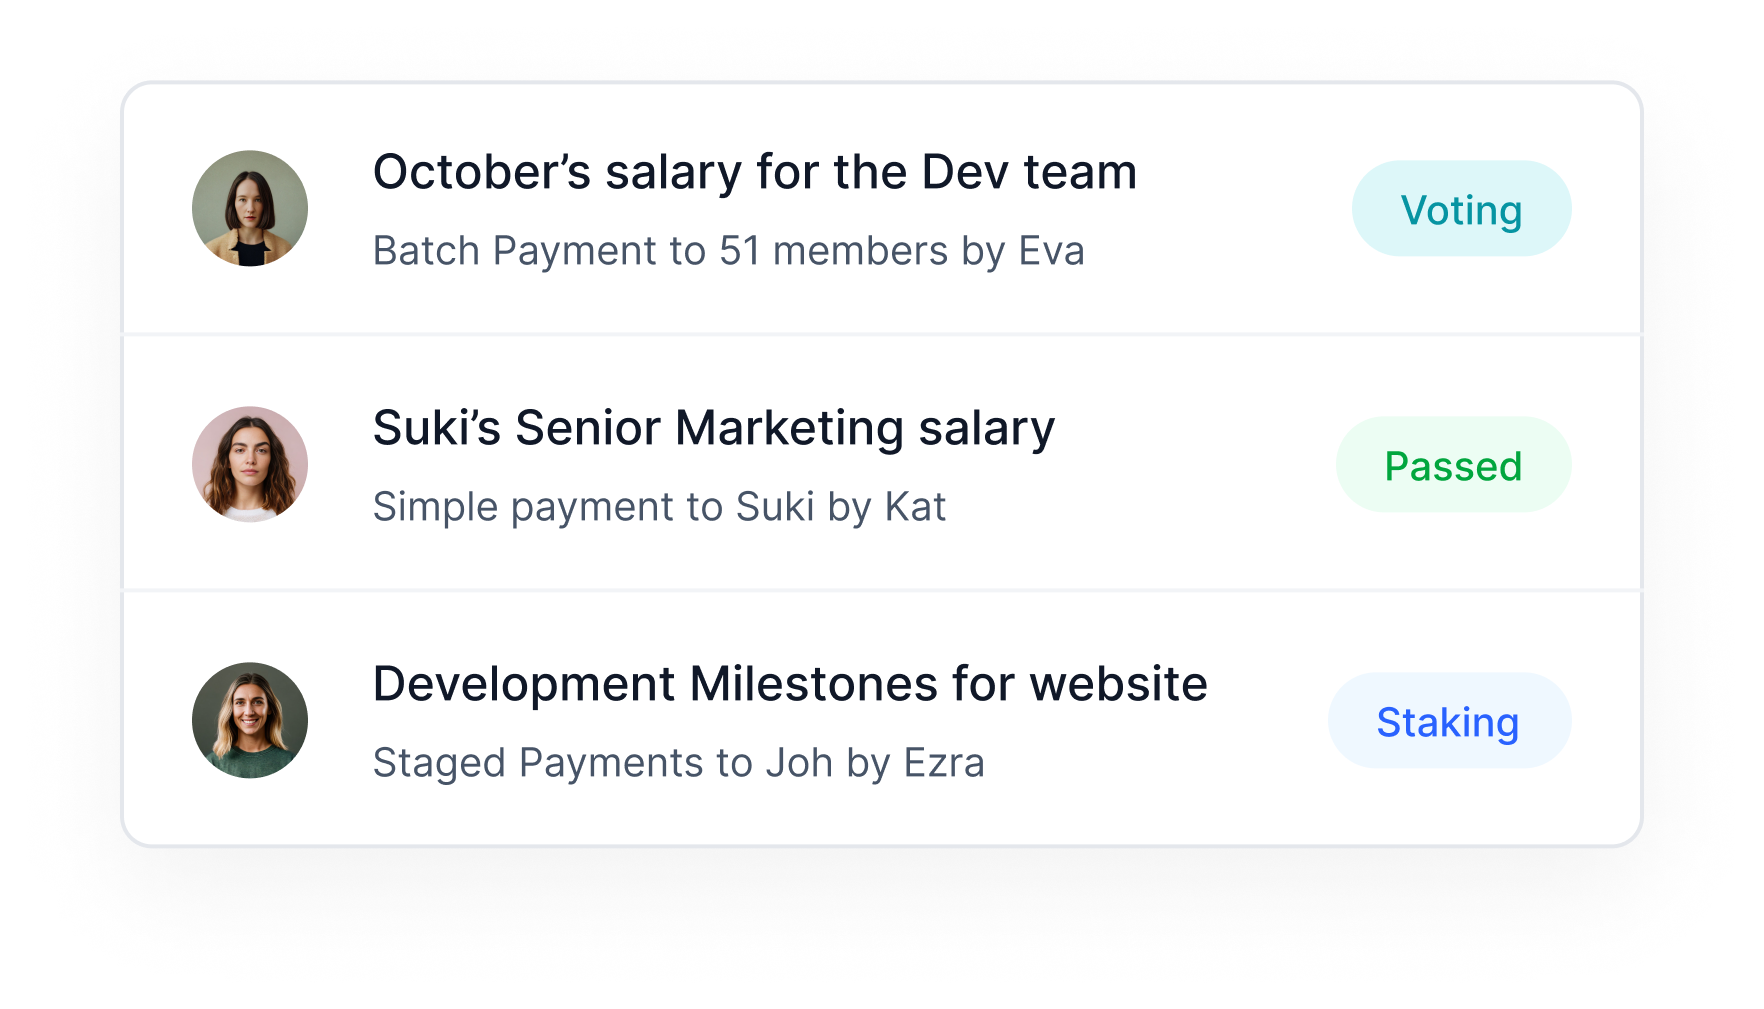
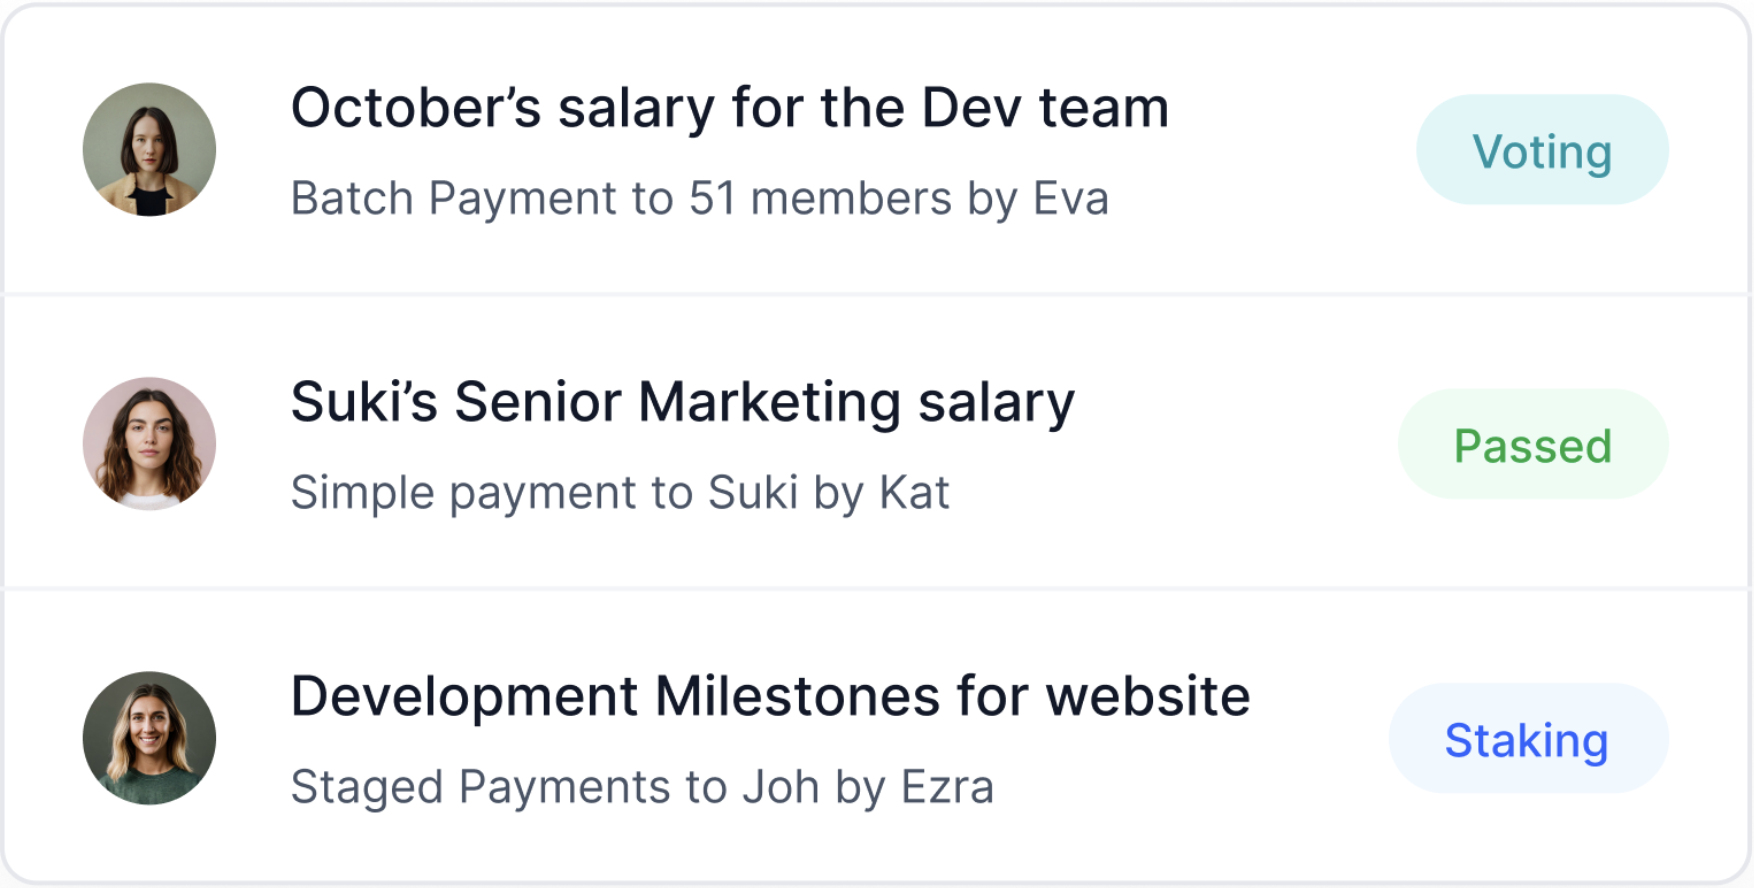
fix: slider image for mobile

diff --git a/src/components/frame/LandingPage/partials/LandingPageCarousel/LandingPageCarousel.tsx b/src/components/frame/LandingPage/partials/LandingPageCarousel/LandingPageCarousel.tsx
@@ -60,7 +60,7 @@ const LandingPageCarousel = () => {
 
   return (
     <div className="flex h-full flex-col justify-center">
-      <div className="w-full md:hidden">
+      <div className="w-full px-8 pb-9 pt-4.5 md:hidden">
         <img className="w-full" src={SlideMobile} alt="slider mobile" />
       </div>
       <div className="flex hidden h-full w-full max-w-[31.25rem] flex-col pt-11 md:block">
